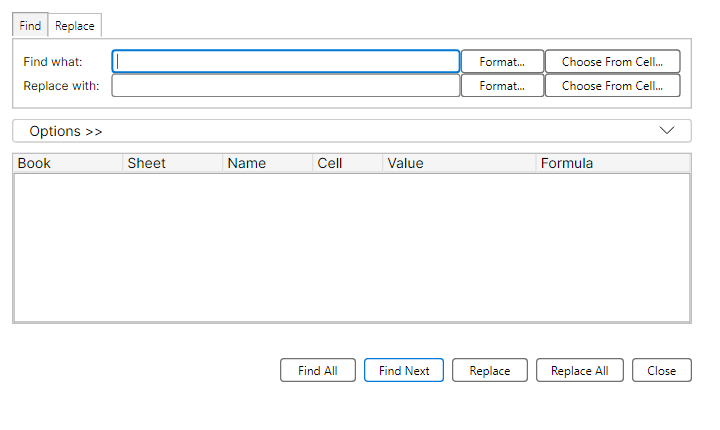
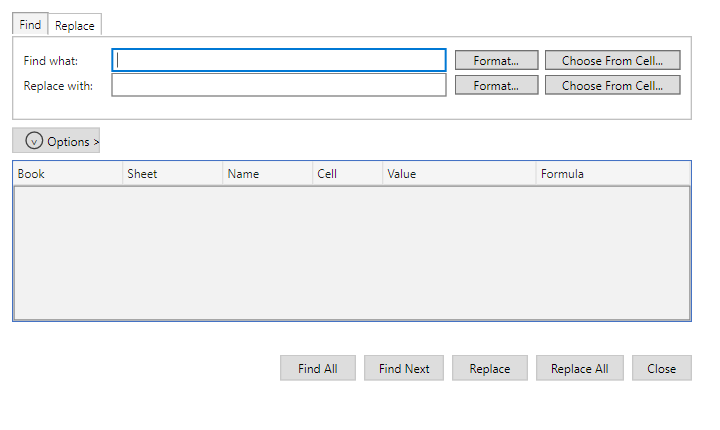
Align Avalonia Find Replace visual parity

diff --git a/src/FreeX.App.Avalonia/MainWindow.cs b/src/FreeX.App.Avalonia/MainWindow.cs
@@ -12900,9 +12900,18 @@ public sealed partial class MainWindow : Window
         {
             Items = { findTabItem, replaceTabItem },
             SelectedIndex = replaceMode ? 1 : 0,
+            Height = 108,
+            MinHeight = 108,
+            MaxHeight = 108,
         };
         AutomationProperties.SetAutomationId(tabs, "FindReplaceTabs");
         AvaloniaCompactDialogChrome.ApplyClassicTabChrome(tabs);
+        var findReplaceTabStyle = new Style(selector => selector.OfType<TabItem>());
+        findReplaceTabStyle.Setters.Add(new Setter(Layoutable.HeightProperty, 22d));
+        findReplaceTabStyle.Setters.Add(new Setter(Layoutable.MinHeightProperty, 22d));
+        findReplaceTabStyle.Setters.Add(new Setter(Layoutable.MaxHeightProperty, 22d));
+        findReplaceTabStyle.Setters.Add(new Setter(TabItem.PaddingProperty, new Thickness(6, 1)));
+        tabs.Styles.Add(findReplaceTabStyle);
 
         // ── Shared options ──────────────────────────────────────────────────────
         StyleDiff? findFormat = null;
@@ -13039,8 +13048,9 @@ public sealed partial class MainWindow : Window
         resultsPanel.Children.Add(resultsList);
         var resultsBorder = new Border
         {
-            BorderBrush = FormulaBarControlBorder,
+            BorderBrush = Brush(68, 114, 196),
             BorderThickness = new Thickness(1),
+            Background = Brush(242, 242, 242),
             Child = resultsPanel,
         };
 
@@ -13064,6 +13074,22 @@ public sealed partial class MainWindow : Window
         var closeButton = new Button { Content = Fr("FindReplace_Close", "Close"), Width = 60, MinWidth = 60, Padding = new Thickness(4, 1), IsCancel = true };
         AutomationProperties.SetAutomationId(closeButton, "FindReplaceCloseButton");
         ApplyDialogButtonChrome(closeButton);
+
+        foreach (var button in new[] { findAllButton, findNextButton, replaceButton, replaceAllButton, closeButton,
+                                       findFormatButton, findFormatClearButton, findChooseFormatButton,
+                                       replaceFindFormatButton, replaceFindFormatClearButton, replaceFindChooseFormatButton,
+                                       replaceWithFormatButton, replaceWithFormatClearButton, replaceWithChooseFormatButton })
+        {
+            button.Height = 20;
+            button.MinHeight = 20;
+            button.MaxHeight = 20;
+            button.Padding = new Thickness(4, 0);
+            button.CornerRadius = new CornerRadius(0);
+            button.Background = Brush(221, 221, 221);
+            button.BorderBrush = button.IsDefault ? Brush(0, 120, 215) : Brush(112, 112, 112);
+        }
+        foreach (var textBox in new[] { findBox, replaceFindBox, replaceWithBox })
+            textBox.CornerRadius = new CornerRadius(0);
 
         bool OnReplaceTab() => tabs.SelectedItem == replaceTabItem;
         string CurrentFindText() => (OnReplaceTab() ? replaceFindBox.Text : findBox.Text) ?? "";
@@ -13187,30 +13213,101 @@ public sealed partial class MainWindow : Window
             Children = { findAllButton, findNextButton, replaceButton, replaceAllButton, closeButton },
         };
 
-        var optionsExpander = new Expander
+        var optionsGlyph = new Border
         {
-            Header = Fr("FindReplace_Options", "Options >>"),
-            IsExpanded = false,
-            Content = optionsControls.Panel,
-            HorizontalAlignment = AvaloniaHorizontalAlignment.Stretch,
-            HorizontalContentAlignment = AvaloniaHorizontalAlignment.Stretch,
-            Height = 24,
-            MinHeight = 24,
-            MaxHeight = 24,
+            Width = 18,
+            Height = 18,
+            CornerRadius = new CornerRadius(9),
+            BorderBrush = Brush(64, 64, 64),
+            BorderThickness = new Thickness(1),
+            Child = new TextBlock
+            {
+                Text = "⌄",
+                FontSize = 12,
+                Foreground = Brushes.Black,
+                HorizontalAlignment = AvaloniaHorizontalAlignment.Center,
+                VerticalAlignment = AvaloniaVerticalAlignment.Center,
+                Margin = new Thickness(0, -2, 0, 0),
+            },
         };
-        AutomationProperties.SetAutomationId(optionsExpander, "FindReplaceOptionsExpander");
-        optionsExpander.PropertyChanged += (_, args) =>
+        var optionsHeaderText = new TextBlock
         {
-            if (args.Property != Expander.IsExpandedProperty)
-                return;
+            Text = Fr("FindReplace_Options", "Options >>"),
+            FontSize = 12,
+            Foreground = Brushes.Black,
+            VerticalAlignment = AvaloniaVerticalAlignment.Center,
+        };
+        var optionsHeader = new Button
+        {
+            Content = new StackPanel
+            {
+                Orientation = Orientation.Horizontal,
+                Spacing = 4,
+                Children =
+                {
+                    optionsGlyph,
+                    optionsHeaderText,
+                },
+            },
+            Width = 88,
+            MinWidth = 88,
+            MaxWidth = 88,
+            Height = 20,
+            MinHeight = 20,
+            MaxHeight = 20,
+            Padding = new Thickness(1, 0),
+            Background = Brushes.Transparent,
+            BorderThickness = new Thickness(0),
+            HorizontalContentAlignment = AvaloniaHorizontalAlignment.Left,
+            VerticalContentAlignment = AvaloniaVerticalAlignment.Center,
+        };
+        AutomationProperties.SetName(optionsHeader, Fr("FindReplace_Options", "Options"));
+        AutomationProperties.SetAutomationId(optionsHeader, "FindReplaceOptionsExpander");
+        ApplyDialogButtonChrome(optionsHeader);
+        optionsHeader.Height = 20;
+        optionsHeader.MinHeight = 20;
+        optionsHeader.MaxHeight = 20;
+        optionsHeader.Padding = new Thickness(1, 0);
+        optionsHeader.Width = 88;
+        optionsHeader.MinWidth = 88;
+        optionsHeader.MaxWidth = 88;
+        optionsHeader.Background = Brushes.White;
+        optionsHeader.BorderBrush = Brushes.White;
+        optionsHeader.BorderThickness = new Thickness(0);
+        optionsHeader.CornerRadius = new CornerRadius(0);
 
-            optionsExpander.Height = optionsExpander.IsExpanded ? double.NaN : 24;
-            optionsExpander.MaxHeight = optionsExpander.IsExpanded ? double.PositiveInfinity : 24;
+        var optionsContent = new Border
+        {
+            Child = optionsControls.Panel,
+            IsVisible = false,
+            Margin = new Thickness(0, 8, 0, 0),
+        };
+        var optionsExpander = new Grid { RowDefinitions = new RowDefinitions("20,Auto") };
+        Grid.SetRow(optionsHeader, 0);
+        Grid.SetRow(optionsContent, 1);
+        optionsExpander.Children.Add(optionsHeader);
+        optionsExpander.Children.Add(optionsContent);
+        optionsHeader.Click += (_, _) =>
+        {
+            optionsContent.IsVisible = !optionsContent.IsVisible;
+            optionsHeaderText.Text = optionsContent.IsVisible
+                ? Fr("FindReplace_OptionsExpanded", "Options <<")
+                : Fr("FindReplace_Options", "Options >>");
+            AutomationProperties.SetName(optionsHeader, optionsHeaderText.Text);
+            optionsGlyph.Child = new TextBlock
+            {
+                Text = optionsContent.IsVisible ? "⌃" : "⌄",
+                FontSize = 12,
+                Foreground = Brushes.Black,
+                HorizontalAlignment = AvaloniaHorizontalAlignment.Center,
+                VerticalAlignment = AvaloniaVerticalAlignment.Center,
+                Margin = new Thickness(0, optionsContent.IsVisible ? 2 : -2, 0, 0),
+            };
         };
 
         var root = new Grid
         {
-            Margin = new Thickness(12, 12, 28, 48),
+            Margin = new Thickness(12, 12, 28, 49),
             RowDefinitions = new RowDefinitions("Auto,Auto,*,Auto,Auto"),
         };
         ConfigureDialogTabCycle(dialog, root);
@@ -13218,7 +13315,11 @@ public sealed partial class MainWindow : Window
         tabs.Margin = new Thickness(0, 0, 0, 10);
         optionsExpander.Margin = new Thickness(0, 0, 0, 10);
         resultsBorder.MinHeight = 120;
-        resultsBorder.Margin = new Thickness(0, 0, 0, 8);
+        resultsBorder.Margin = new Thickness(0, 0, 0, 7);
+        resultsHeader.Height = 24;
+        resultsHeader.MinHeight = 24;
+        resultsHeader.MaxHeight = 24;
+        resultsPanel.Background = Brush(242, 242, 242);
         statusLabel.Margin = new Thickness(0, 0, 0, 8);
         buttonRow.Margin = new Thickness(0);
 

diff --git a/tests/FreeX.App.Services.Tests/AvaloniaFindReplaceSurfaceTests.cs b/tests/FreeX.App.Services.Tests/AvaloniaFindReplaceSurfaceTests.cs
@@ -22,8 +22,12 @@ public sealed class AvaloniaFindReplaceSurfaceTests
         source.Should().Contain("var replaceFindChooseFormatButton = CreateFindReplaceFormatButton(\"FindReplaceReplaceFindChooseFormatFromCellButton\"");
         source.Should().Contain("var replaceWithFormatButton = CreateFindReplaceFormatButton(\"FindReplaceReplaceWithFormatButton\"");
         source.Should().Contain("var replaceWithChooseFormatButton = CreateFindReplaceFormatButton(\"FindReplaceReplaceWithChooseFormatFromCellButton\"");
-        source.Should().Contain("Header = Fr(\"FindReplace_Options\", \"Options >>\")");
-        source.Should().Contain("IsExpanded = false");
+        source.Should().Contain("var optionsHeader = new Button");
+        source.Should().Contain("AutomationProperties.SetAutomationId(optionsHeader, \"FindReplaceOptionsExpander\")");
+        source.Should().Contain("optionsContent.IsVisible = !optionsContent.IsVisible;");
+        source.Should().Contain("? Fr(\"FindReplace_OptionsExpanded\", \"Options <<\")");
+        source.Should().Contain(": Fr(\"FindReplace_Options\", \"Options >>\")");
+        source.Should().Contain("AutomationProperties.SetName(optionsHeader, optionsHeaderText.Text);");
         source.Should().Contain("ColumnDefinitions = new ColumnDefinitions(\"110,100,90,70,*,*\")");
         source.Should().Contain("RowDefinitions = new RowDefinitions(\"Auto,Auto,*,Auto,Auto\")");
         source.Should().Contain("resultsBorder.MinHeight = 120");

diff --git a/tests/FreeX.App.Avalonia.Tests/DialogVisualParitySourceTests.cs b/tests/FreeX.App.Avalonia.Tests/DialogVisualParitySourceTests.cs
@@ -13,6 +13,20 @@ public sealed class DialogVisualParitySourceTests
         source.Should().Contain("var findBox = new TextBox { Text = _session.LastFindText, MinWidth = 260 };");
         source.Should().Contain("findFormatButton.Margin = new Thickness(8, 0, 0, 0);");
         source.Should().Contain("findChooseFormatButton.Margin = new Thickness(6, 0, 0, 0);");
+        source.Should().Contain("Height = 108,");
+        source.Should().Contain("Width = 88,");
+        source.Should().Contain("new Thickness(6, 1)");
+        source.Should().Contain("BorderBrush = Brush(68, 114, 196)");
+        source.Should().Contain("Background = Brush(242, 242, 242)");
+        source.Should().Contain("optionsHeader");
+        source.Should().Contain("resultsHeader.Height = 24;");
+        source.Should().Contain("button.CornerRadius = new CornerRadius(0);");
+        source.Should().Contain("textBox.CornerRadius = new CornerRadius(0);");
+        source.Should().Contain("optionsHeader.Width = 88;");
+        source.Should().Contain("optionsHeader.Background = Brushes.White;");
+        source.Should().Contain("? Fr(\"FindReplace_OptionsExpanded\", \"Options <<\")");
+        source.Should().Contain(": Fr(\"FindReplace_Options\", \"Options >>\")");
+        source.Should().Contain("AutomationProperties.SetName(optionsHeader, optionsHeaderText.Text);");
         source.Should().Contain("dialog.Opened += (_, _) => resultsList.Background = Brush(242, 242, 242);");
     }
 

diff --git a/docs/parity/dialog-visual-evidence-summary.md b/docs/parity/dialog-visual-evidence-summary.md
@@ -63,7 +63,6 @@ Outliers are ranked by a deterministic triage score: normalized 32x32 ARGB sampl
 | Surface id | WPF logical size | Avalonia logical size | Raw PNG sizes | Bucket | Evidence flag | Score | Sample delta | Luma delta | Non-bg delta |
 | --- | ---: | ---: | --- | --- | --- | ---: | ---: | ---: | ---: |
 | dialog.PrintPreview | 1120x700 | 1120x700 | 1120x700 px @ 96 DPI vs 1120x700 px @ 96 DPI |  |  | 0.378 | 0.126 | 0.061 | 0.191 |
-| dialog.FindReplace.Replace | 720x430 | 720x430 | 720x430 px @ 96 DPI vs 720x430 px @ 96 DPI |  |  | 0.352 | 0.031 | 0.020 | 0.302 |
 | dialog.SortOptions | 330x260 | 330x260 | 495x390 px @ 144 DPI vs 330x260 px @ 96 DPI |  |  | 0.237 | 0.047 | 0.028 | 0.162 |
 | dialog.ShapeEffects | 380x190 | 380x190 | 570x285 px @ 144 DPI vs 380x190 px @ 96 DPI |  |  | 0.215 | 0.031 | 0.021 | 0.163 |
 | dialog.Sparkline | 380x280 | 380x280 | 380x280 px @ 96 DPI vs 380x280 px @ 96 DPI |  |  | 0.187 | 0.054 | 0.016 | 0.117 |
@@ -72,6 +71,7 @@ Outliers are ranked by a deterministic triage score: normalized 32x32 ARGB sampl
 | dialog.ConditionalFormatNewRule | 634x334 | 634x334 | 634x334 px @ 96 DPI vs 634x334 px @ 96 DPI |  |  | 0.176 | 0.053 | 0.014 | 0.109 |
 | dialog.Subtotal | 380x390 | 380x390 | 570x585 px @ 144 DPI vs 380x390 px @ 96 DPI |  |  | 0.166 | 0.032 | 0.015 | 0.119 |
 | dialog.FormatCells.Fill | 620x540 | 620x540 | 620x540 px @ 96 DPI vs 620x540 px @ 96 DPI |  |  | 0.159 | 0.031 | 0.038 | 0.090 |
+| dialog.Options.QuickAccessToolbar | 744x521 | 744x521 | 744x521 px @ 96 DPI vs 744x521 px @ 96 DPI |  |  | 0.139 | 0.021 | 0.018 | 0.101 |
 
 ## Scale-Aware Dimension Mismatch Details
 
@@ -108,7 +108,7 @@ These rows have a DPI-normalized checked-in PNG size that disagrees with the dia
 | dialog.ExportOptions | dialog.ExportOptions.png | 430x552 | 430x552 px @ 96 DPI | True | dialog.ExportOptions.png | 430x552 | 430x552 px @ 96 DPI | True | True | 0.058 |
 | dialog.FindReplace | dialog.FindReplace.png | 720x430 | 720x430 px @ 96 DPI | True | dialog.FindReplace.png | 720x430 | 720x430 px @ 96 DPI | True | True | 0.095 |
 | dialog.FindReplace.Find | dialog.FindReplace.Find.png | 720x430 | 720x430 px @ 96 DPI | True | dialog.FindReplace.Find.png | 720x430 | 720x430 px @ 96 DPI | True | True | 0.095 |
-| dialog.FindReplace.Replace | dialog.FindReplace.Replace.png | 720x430 | 720x430 px @ 96 DPI | True | dialog.FindReplace.Replace.png | 720x430 | 720x430 px @ 96 DPI | True | True | 0.352 |
+| dialog.FindReplace.Replace | dialog.FindReplace.Replace.png | 720x430 | 720x430 px @ 96 DPI | True | dialog.FindReplace.Replace.png | 720x430 | 720x430 px @ 96 DPI | True | True | 0.054 |
 | dialog.ForecastSheet | dialog.ForecastSheet.png | 320x150 | 480x225 px @ 144 DPI | True | dialog.ForecastSheet.png | 320x150 | 320x150 px @ 96 DPI | True | True | 0.057 |
 | dialog.FormatCells | dialog.FormatCells.png | 620x540 | 620x540 px @ 96 DPI | True | dialog.FormatCells.png | 620x540 | 620x540 px @ 96 DPI | True | True | 0.029 |
 | dialog.FormatCells.Alignment | dialog.FormatCells.Alignment.png | 620x540 | 620x540 px @ 96 DPI | True | dialog.FormatCells.Alignment.png | 620x540 | 620x540 px @ 96 DPI | True | True | 0.090 |
